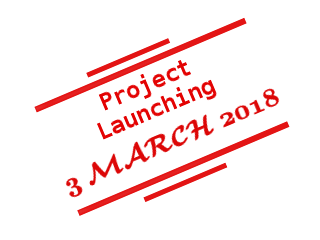
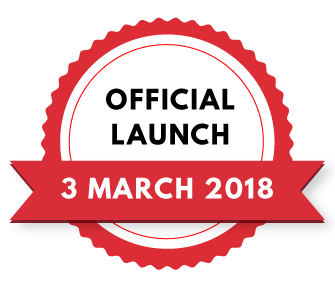
update image

diff --git a/index.html b/index.html
@@ -94,11 +94,11 @@
                 <div class="overlay">
                     <div class="container">
                         <div class="float-content">
-                            <div class="title p-a-3 m-t-1">
-                                <div class="launching-tag">
-                                    <img src="images/launch-tag.png" alt="">
-                                </div>
+                            <div class="title m-t-1">
                                 <div class="head font-type-3">
+                                    <div class="launching-tag">
+                                        <img src="images/launch-tag.png" alt="">
+                                    </div>
                                     <h2>
                                         <strong>Welcome to Rivercove Residences</strong>
                                     </h2>
@@ -106,7 +106,7 @@
                                         <span>Executive Condominium at Anchorvale Lane</span>
                                     </h3>
                                 </div>
-                                <div class="m-t-1 m-b-1 font-type-1" style="font-size: 19px; color: white;">
+                                <div class="m-t-1 m-b-1 font-type-1" style="color: white;">
                                     A Premium Development by
                                 </div>
                                 <div>
@@ -117,7 +117,7 @@
                                 </div>
                             </div>
                             <a href="#register">
-                                <button class="register-interest btn btn-secondary btn-lg font-type-3">
+                                <button class="register-interest btn btn-secondary btn-lg font-type-2">
                                     Register your interest
                                 </button>
                             </a>
@@ -237,8 +237,9 @@
                     <div class="container">
                         <div class="float-content p-y-3 text-xs-center">
                             <div class="title p-t-1 m-b-1 p-x-1 font-type-2">
-                                <h4>Register & receive the complete Rivercove Residences Brochure</h4>
-                                <p>The brochure includes floor plans, site plans and more</p>
+                                <h4>Dont's miss out on this new and only EC in 2018.</h4>
+                                <h4>Register your interest for VVIP Preview Invites to the Launch and Booking Day.</h4>
+                                <p>For those who registered their interest and gotten our VVIP invites to be the first to view the showflat and make a booking for your choice unit.</p>
                             </div>
                             <div class="p-t-1 p-b-2">
                                 <iframe src="https://docs.google.com/forms/d/e/1FAIpQLSeV9gqv8LfoOcxnaeGJ2lqVkzHUFmYF5CijLWhTV4gGryrscA/viewform?embedded=true"

diff --git a/assets/my-style.css b/assets/my-style.css
@@ -159,16 +159,54 @@ img.logo {
 .rcr section.home .container .title {
     font-weight: 300;
     position: relative;
+    padding: 3rem;
+}
+@media (max-width: 767px) {
+    .rcr section.home .container .title {
+        padding: 3rem 0;
+    }
 }
 .rcr section.home .container .title .launching-tag {
     position: absolute;
-    top: -6rem;
-    left: -4rem;
+    bottom: -10rem;
+    right: -14rem;
+    width: 300px;
 }
+.rcr section.home .container .title .launching-tag img {
+    width: 100%;
+}
+
+@media (min-width: 768px) and (max-width: 1100px) {
+    .rcr section.home .container .title .launching-tag {
+        bottom: -8rem;
+        right: -8rem;
+    }
+}
+@media (max-width:767px) {
+    .rcr section.home .container .title .launching-tag {
+        position: absolute;
+        top: -53%;
+        right: -12%;
+        left: auto;
+        bottom: auto;
+        width: 45%;
+    }
+}
+
+
 .rcr section.home .container .title .head {
+    position: relative;
     background-color: RGBA(245, 245, 255, 0.7);
     border-radius: 15px;
     padding: 2rem 1rem;
+}
+@media (max-width: 767px) {
+    .rcr h2 {
+        font-size: 1.85rem;
+    }
+    .rcr h3 {
+        font-size: 1.3rem;
+    }
 }
 
 
